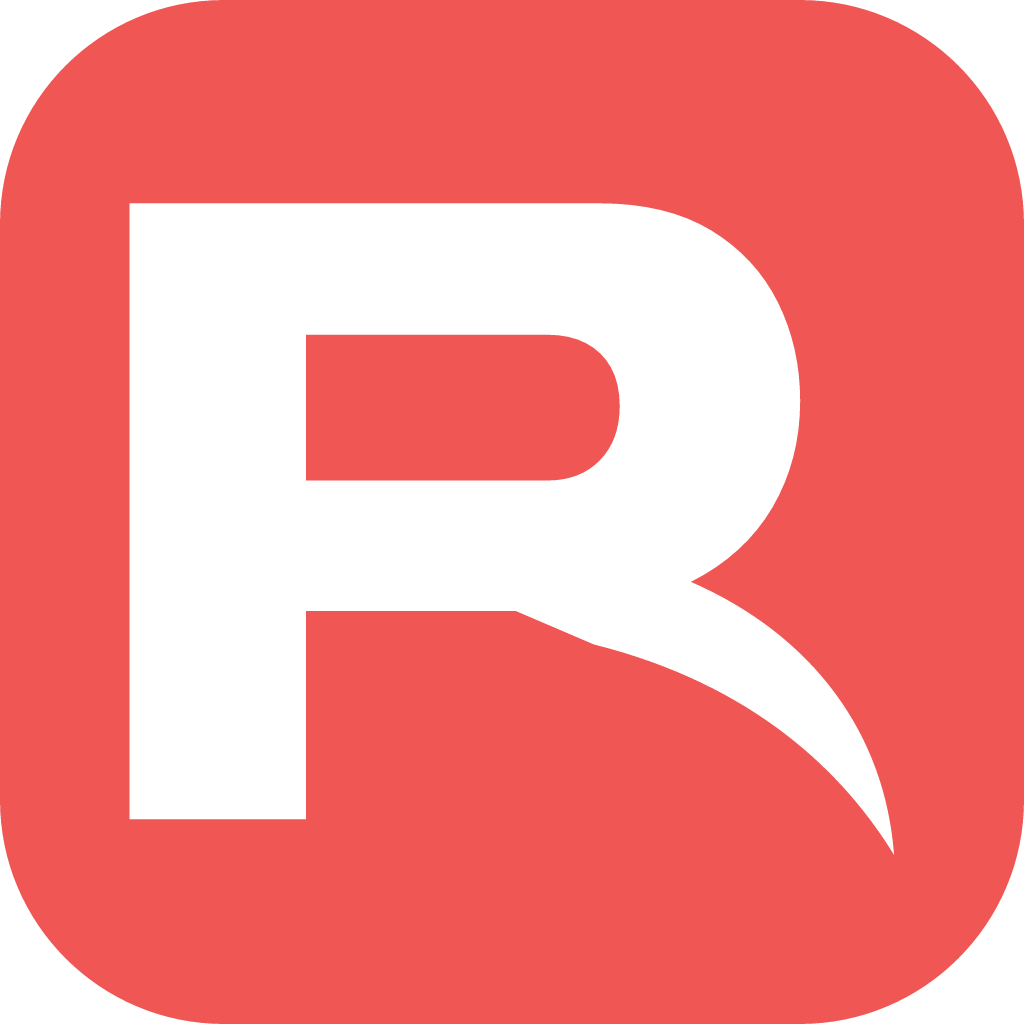
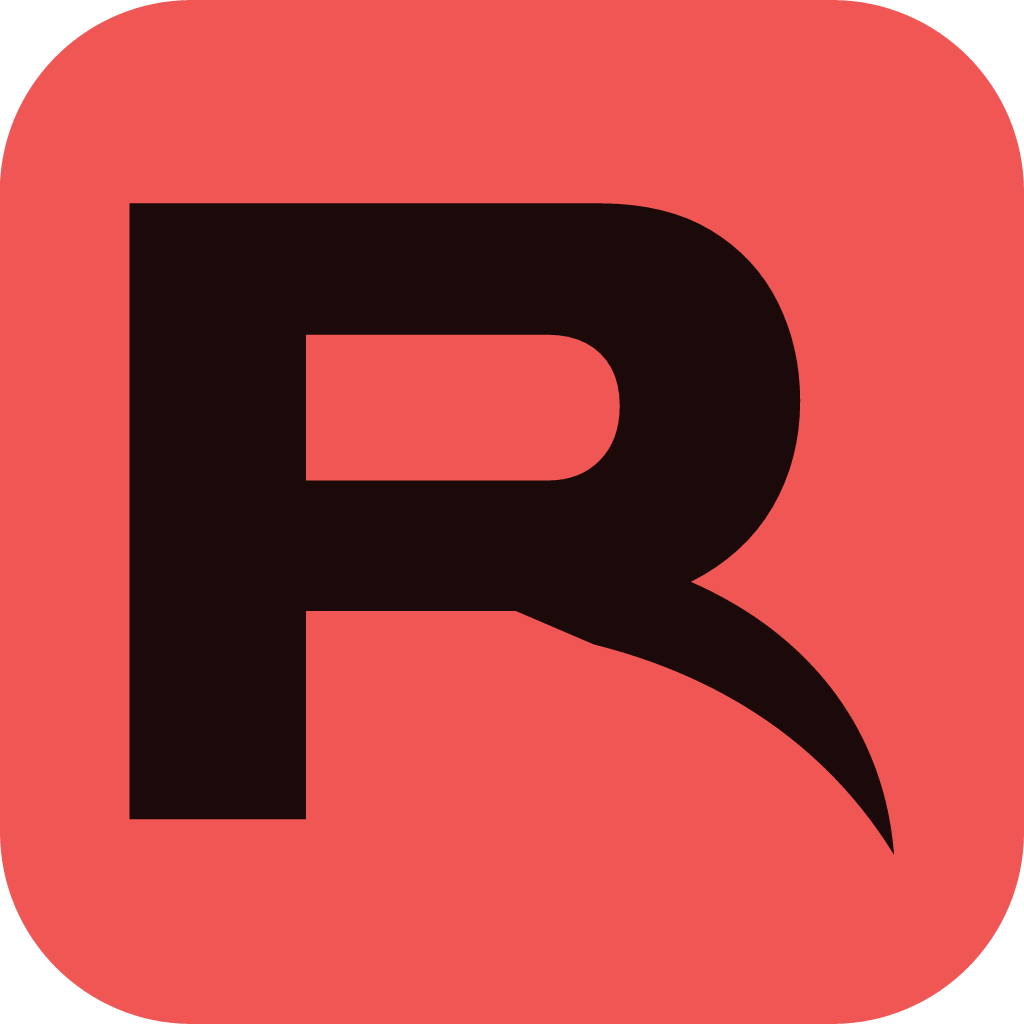
feat(raptor): adopt Raptor's own branding from DESIGN.md
Vendor Raptor's tokens (Signal Red on warm Ink, Bone/Ash, state colours)
and logo lockup geometry, and copy its official logos, favicon and site
link preview verbatim. Rebuild the README banner in Raptor's colours and
type (Hanken Grotesk headline, // mono kicker) on the horizon, fix the
icon to an Ink claw R on the red tile, and add the small mark and
dark/light logos. Drop the homemade Raptor link preview in favour of the
official og.png.

diff --git a/tokens/raptor.css b/tokens/raptor.css
@@ -1,0 +1,21 @@
+:root {
+  --raptor-signal-red: oklch(0.66 0.19 25); /* #F05653 */
+  --raptor-signal-red-daylight: oklch(0.545 0.215 25); /* #D01025 */
+  --raptor-on-signal: oklch(0.17 0.03 25); /* #1B0A09 */
+  --raptor-ink: oklch(0.145 0.012 25); /* #0F0808 */
+  --raptor-ink-raised: oklch(0.185 0.013 25); /* #181110 */
+  --raptor-ink-sidebar: oklch(0.125 0.01 25); /* #0A0505 */
+  --raptor-ink-muted: oklch(0.225 0.014 25); /* #221918 */
+  --raptor-ink-rule: oklch(0.3 0.012 25); /* #342C2B */
+  --raptor-bone: oklch(0.96 0.005 25); /* #F5F0F0 */
+  --raptor-ash: oklch(0.68 0.011 25); /* #9F9695 */
+  --raptor-daylight: oklch(0.975 0.004 25); /* #F9F6F5 */
+  --raptor-daylight-raised: oklch(0.955 0.006 25); /* #F4EFEE */
+  --raptor-daylight-rule: oklch(0.88 0.01 25); /* #DED5D4 */
+  --raptor-graphite: oklch(0.18 0.018 25); /* #190F0E */
+  --raptor-slate: oklch(0.46 0.013 25); /* #5F5554 */
+  --raptor-ok: oklch(0.8 0.16 150); /* #66DA85 */
+  --raptor-warn: oklch(0.82 0.15 80); /* #F7B83D */
+  --raptor-danger: oklch(0.72 0.17 10); /* #FB718C */
+  --raptor-terminal-ink: #0a0c11; /* #0A0C11 */
+}

diff --git a/README.md b/README.md
@@ -46,11 +46,13 @@ Available as [`tokens/colors.css`](tokens/colors.css) (`--xena-*`) and [`tokens/
 | Logo / display | **Ethnocentric** (Typodermic) | Caps only, always outlined |
 | Taglines, labels | **JetBrains Mono** Light / Regular | Taglines in Light, labels in Regular with wide tracking |
 
+Raptor graphics follow Raptor's own type rules (see [Raptor](#raptor)).
+
 **Ethnocentric licence.** The free Typodermic desktop licence covers logos and outlined images only. It does not allow webfonts, shipping the font in apps or sites, or sharing the font file. So the font is **not** in this repo, and every Ethnocentric letter in these files is a vector path. If live Ethnocentric text is ever needed on a website, buy a webfont licence from Typodermic first.
 
 ## Horizon
 
-Every graphic uses the same scene: a flat `void` sky and one huge planet whose Ion Blue limb arcs across the bottom. Nothing else, no stars.
+Every Xena graphic uses the same scene: a flat `void` sky and one huge planet whose Ion Blue limb arcs across the bottom. Nothing else, no stars. Raptor's banner uses the same horizon in Raptor's colours (Ink sky, Signal Red limb).
 
 | File | Size | Use |
 |---|---|---|
@@ -64,18 +66,50 @@ Every graphic uses the same scene: a flat `void` sky and one huge planet whose I
 
 ![Raptor](raptor/banner.png)
 
-Raptor keeps its own identity: red `#F05653`, the Archivo wordmark, the running raptor, and the claw R. Xena supplies the horizon and the XENA STUDIOS endorsement.
+Raptor keeps its own identity, taken from [`docs/DESIGN.md`](https://github.com/xena-studios/raptor/blob/main/docs/DESIGN.md) in `xena-studios/raptor` ("The Console": Signal Red on warm Ink). Xena supplies only the horizon and the XENA STUDIOS endorsement.
 
-- **Anywhere the name RAPTOR appears, the running raptor sits beside it.**
-- **The claw R is the icon only** (favicon, app icon), never paired with the wordmark.
+### Marks
 
-| File | Size | Use |
-|---|---|---|
-| `raptor/banner` | 1920×600 (PNG @2×) | README banner |
-| `raptor/og-card` | 1200×630 | Link preview for raptorpanel.net |
-| `raptor/icon` | 512×512 | App icon / favicon |
+<img src="raptor/official/logo-dark.png" width="300" alt="Raptor logo"> &nbsp; <img src="raptor/icon.png" width="64" alt="Raptor icon">
 
-Raptor's paths are vendored in [`scripts/raptor-brand.mjs`](scripts/raptor-brand.mjs) from `xena-studios/raptor` → `web/src/lib/brand.ts`. If Raptor's marks change, update both.
+- **Full logo**: the running raptor in Signal Red beside the **RAPTOR** wordmark (Archivo ExtraBold 800, 0.06em tracking, outlined). Wherever the wordmark appears, the raptor is beside it, and the raptor never appears without the wordmark.
+- **Small mark**: the R whose leg is a raptor's sickle claw, in Signal Red on its own. For 32px+ spots with no room for the full logo. Never beside the wordmark.
+- **Favicon / app icon / avatar**: the claw R in Ink (`on-signal`) on a Signal Red tile with 6/32 corners.
+- One flat colour per mark: no gradients, outlines or shadows. The wordmark is Bone on dark, Graphite on light; the red switches to its Daylight value on light.
+
+### Colour
+
+| Token | oklch | Hex | Role |
+|---|---|---|---|
+| `signal-red` | `oklch(0.66 0.19 25)` | `#F05653` | The one accent: raptor, marks, primary action |
+| `signal-red-daylight` | `oklch(0.545 0.215 25)` | `#D01025` | Signal Red on light backgrounds |
+| `on-signal` | `oklch(0.17 0.03 25)` | `#1B0A09` | Claw R on the red tile |
+| `ink` | `oklch(0.145 0.012 25)` | `#0F0808` | Page / banner background |
+| `ink-raised` | `oklch(0.185 0.013 25)` | `#181110` | Cards, planet body |
+| `ink-rule` | `oklch(0.3 0.012 25)` | `#342C2B` | Borders, dividers |
+| `bone` | `oklch(0.96 0.005 25)` | `#F5F0F0` | Text, wordmark on dark |
+| `ash` | `oklch(0.68 0.011 25)` | `#9F9695` | Secondary text, kickers |
+| `graphite` | `oklch(0.18 0.018 25)` | `#190F0E` | Text, wordmark on light |
+
+The full set, including Daylight and state colours (`ok`, `warn`, `danger`), is in [`tokens/raptor.css`](tokens/raptor.css) and [`tokens/raptor.json`](tokens/raptor.json). Neutrals are tinted toward red (hue 25). Red means the action, the place, or what's live, never decoration. Green, amber and danger mean state only.
+
+### Type
+
+- **Hanken Grotesk** for sentences: headlines 700 with -0.025em tracking, body 400.
+- **JetBrains Mono** for everything machines say and every control: labels, buttons, numbers, and the uppercase `//` kicker (+0.18em).
+- **Archivo** is only the wordmark's letters.
+
+### Files
+
+| File | Use |
+|---|---|
+| `raptor/banner` | README banner, 1920×600 (PNG @2×) |
+| `raptor/logo-dark`, `raptor/logo-light` | Full logo for dark / light backgrounds |
+| `raptor/icon` | Favicon, app icon, avatar (512) |
+| `raptor/mark` | Small claw R mark |
+| `raptor/official/` | Verbatim copies from the Raptor repo: docs logos, favicon, and the site's `og.png` link preview |
+
+The paths and tokens are vendored in [`scripts/raptor-brand.mjs`](scripts/raptor-brand.mjs) from `web/src/lib/brand.ts` and `docs/DESIGN.md`. If Raptor's marks or colours change, update that file, refresh `raptor/official/`, and rebuild.
 
 ## Build
 
@@ -84,7 +118,8 @@ Every asset is generated by [`scripts/build.mjs`](scripts/build.mjs).
 ```sh
 npm install
 cp /path/to/Ethnocentric-Regular.otf .local-fonts/   # your own licensed copy
+# Hanken Grotesk 700 (OFL, Google Fonts) → .local-fonts/HankenGrotesk-700.ttf
 npm run build
 ```
 
-JetBrains Mono is read from `~/Library/Fonts` by default. Override font paths with `ETHNOCENTRIC=`, `MONO=` and `MONO_LIGHT=`.
+JetBrains Mono is read from `~/Library/Fonts` by default. Override font paths with `ETHNOCENTRIC=`, `MONO=`, `MONO_LIGHT=` and `HANKEN_BOLD=`.
